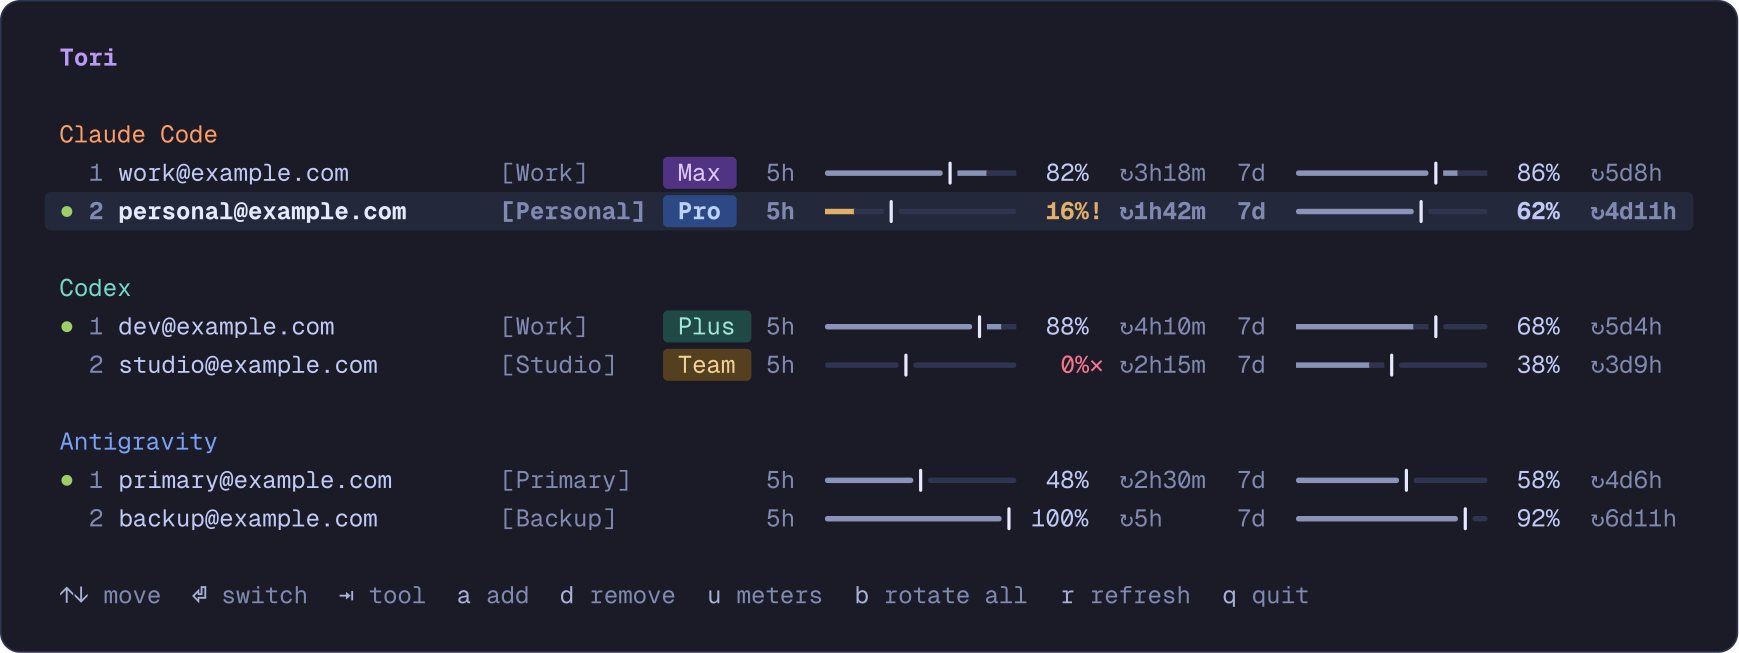
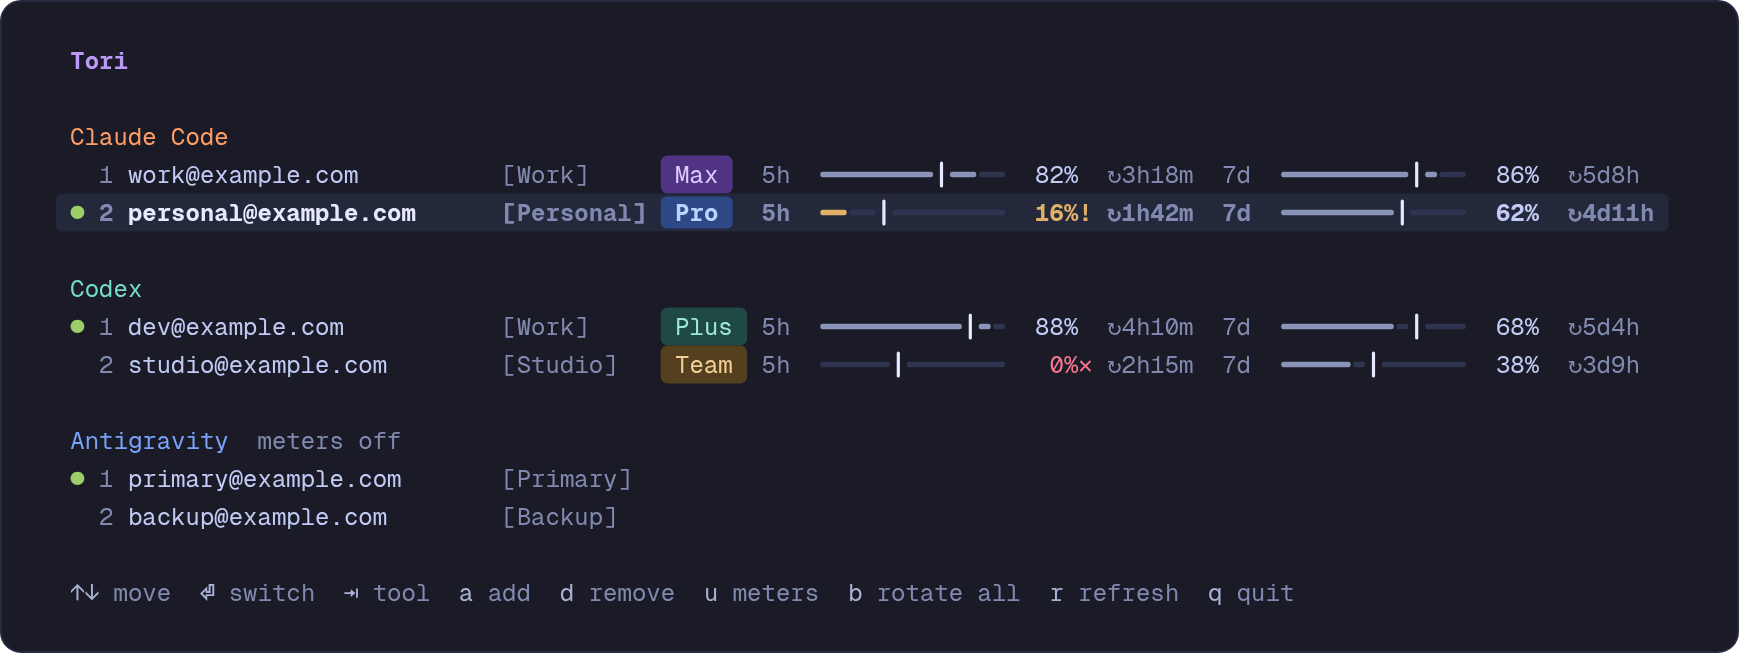
docs: improve search metadata and README for v0.4.0
- add a page heading, non-affiliation line, FAQ and clearer section names
- correct statements about Codex quota, token refresh, saved Antigravity
  files and the switch argument
- replace the screenshot, which showed quota for a signed-out Antigravity
  account
- name the three CLIs in the npm description and keywords, and give the
  platform packages short descriptions that point to tori-switch

diff --git a/README.md b/README.md
@@ -1,7 +1,8 @@
 <div align="center">
-  <img src="docs/tori.svg" alt="Tori" width="150">
-  <p><strong>Switch between Claude Code, Codex, and Antigravity accounts from your terminal — with live quota bars.</strong></p>
-  <p>Linux · macOS · Windows</p>
+  <img src="docs/tori.svg" alt="Tori logo" width="150">
+  <h1>Tori: account switcher for Claude Code, Codex CLI, and Antigravity CLI</h1>
+  <p><strong>Switch between multiple accounts from your terminal, with live quota bars for Claude Code and Codex.</strong></p>
+  <p>Linux · macOS · Windows. Independent open-source project, not affiliated with Anthropic, OpenAI, or Google.</p>
 
   <p>
     <a href="https://github.com/Anurag-Raut/tori/releases"><img src="https://img.shields.io/github/v/release/Anurag-Raut/tori?style=flat-square" alt="Release"></a>
@@ -10,13 +11,13 @@
     <a href="LICENSE"><img src="https://img.shields.io/github/license/Anurag-Raut/tori?style=flat-square" alt="License"></a>
   </p>
 
-  <img src="docs/screenshot.png" alt="Tori interactive terminal picker" width="820">
+  <img src="docs/screenshot.png" alt="Tori terminal UI listing Claude Code and Codex accounts with 5-hour and 7-day quota bars, and Antigravity CLI accounts with meters off" width="820">
 </div>
 
-## Highlights
+## Features
 
 - **Three tools, one picker** — manage multiple **Claude Code**, **Codex CLI**, and **Antigravity CLI** (`agy`) accounts side by side.
-- **Live quota and pace bars** — see remaining 5-hour and 7-day quota, reset timers, and whether you're ahead or behind pace for every saved Claude Code and Codex account. Antigravity meters are off until you turn them on, and cover only the signed-in account.
+- **Live quota and pace bars** — see remaining quota (such as 5-hour and 7-day windows), reset timers, and whether you're ahead or behind pace for saved Claude Code accounts and Codex ChatGPT sign-ins. Codex API keys have no quota to show. Antigravity meters are off until you turn them on, and cover only the signed-in account.
 - **No proxy, no daemon** — Tori swaps your own Claude Code and Codex logins (files and OS keyring entries) only when you ask it to, and switches Antigravity through Google's own sign-in. Your tools keep talking directly to their providers.
 - **Interactive TUI + scriptable CLI** — navigate with keyboard or mouse in the Bubble Tea picker, or automate workflows with subcommands and `--json`.
 - **Linux, macOS, and Windows** — a single static Go binary for x64 and arm64, with zero runtime dependencies.
@@ -24,6 +25,8 @@
 ## Install
 
 ### npm (Linux, macOS & Windows)
+
+The `tori-switch` package installs the `tori` command.
 
 ```bash
 npm install -g tori-switch
@@ -41,7 +44,7 @@ npx tori-switch
 curl -fsSL https://raw.githubusercontent.com/Anurag-Raut/tori/main/install.sh | sh
 ```
 
-Installs `tori` to `~/.local/bin` (override with `PREFIX=/usr/local/bin` or pin a version with `VERSION=v0.3.0`). Make sure `~/.local/bin` is on your `PATH`.
+Installs `tori` to `~/.local/bin` (override with `PREFIX=/usr/local/bin` or pin a version with `VERSION=v0.4.0`). Make sure `~/.local/bin` is on your `PATH`.
 
 ### Windows binary
 
@@ -131,7 +134,7 @@ tori g cleanup            # lists the files and asks first
 
 > **macOS Keychain note:** On macOS, the first time `claude` or `codex` reads a Keychain item written by Tori, or Tori reads `agy`'s item for quota, macOS may show a one-time "Allow access" prompt.
 
-## Reading the quota bars
+## Quota bars and pace indicators
 
 - **Fill = quota remaining** — neutral slate-blue when healthy, amber (`!`) at 20% left or under, and red (`✕`) at 0%.
 - **Pace line (`│`) = time left until reset** — fill past `│` means quota to spare; fill short of `│` means you're burning faster than the window resets.
@@ -139,7 +142,7 @@ tori g cleanup            # lists the files and asks first
 - **Caching & backoff** — readings are cached locally for 3 minutes, refreshes are deduplicated and rate-limited, and transient errors or HTTP 429 responses back off automatically while keeping your last known numbers.
 - **Per-tool control** — toggle quota meters off for any tool with `u` in the picker or `tori usage off <c|x|g|all>` for zero network requests.
 
-## Interactive picker
+## Interactive terminal UI (TUI)
 
 Run `tori` with no arguments to open the interactive picker. Mouse navigation is supported throughout (hover rows, click to select, double-click to switch, click footer hints or dialog choices).
 
@@ -180,11 +183,11 @@ tori g remove 2          # forget a saved account (--yes skips prompt)
 tori c list --json       # machine-readable JSON output
 ```
 
-Every tool supports `list` (`ls`), `status`, `add [alias]`, `switch` (`sw`), `remove` (`rm`), `alias`, and `help`. Antigravity requires a name for `add` and `switch`, and also has `install`, `login`, `logout`, and `cleanup`.
+Every tool supports `list` (`ls`), `status`, `add [alias]`, `switch` (`sw`), `remove` (`rm`), `alias`, and `help`. Antigravity requires a name for `add` and an account (slot number, email, or alias) for `switch`, and also has `install`, `login`, `logout`, and `cleanup`.
 
 ## Configuration & environment
 
-Preferences live in `~/.tori/config.json` and saved credentials under `~/.tori/{claude,codex}`. `~/.tori/antigravity` holds account names and cached quota only. On Windows, `~` is your user profile (`%USERPROFILE%`).
+Preferences live in `~/.tori/config.json` and saved credentials under `~/.tori/{claude,codex}`. `~/.tori/antigravity` holds account names and cached quota; token files saved by 0.3.0 or earlier stay there until you delete them. On Windows, `~` is your user profile (`%USERPROFILE%`).
 
 | Variable | Description |
 |---|---|
@@ -200,8 +203,26 @@ Preferences live in `~/.tori/config.json` and saved credentials under `~/.tori/{
 ## Privacy & terms
 
 - **Local only** — saved logins stay on your machine under `~/.tori/`, written atomically. Files are created with `0600` permissions on Linux and macOS; on Windows they inherit your folder's permissions. Never share that folder.
-- **Direct connections** — Tori is not a proxy and runs no background service. When quota meters are enabled, requests go directly to Anthropic, OpenAI, and Google to read usage (and refresh expired Claude Code and Codex tokens when needed). Turning meters off (`tori usage off all` or `--no-usage`) stops Tori's own network traffic; Claude Code and Codex switching works offline. Antigravity sign-in and installation need a connection.
+- **Direct connections** — Tori is not a proxy and runs no background service. When quota meters are enabled, requests go directly to Anthropic, OpenAI, and Google to read usage (and refresh expired tokens of saved Claude Code and Codex accounts that aren't in use). Turning meters off (`tori usage off all` or `--no-usage`) stops Tori's own network traffic; Claude Code and Codex switching works offline. Antigravity sign-in and installation need a connection.
 - **Antigravity note** — Google's [terms](https://antigravity.google/terms) and [FAQ](https://antigravity.google/docs/faq) restrict third-party tools, including wrapping `agy` and automating account switching, and accounts may be suspended. Using Google's own sign-in lowers that risk but is not approval from Google. Quota meters read your `agy` login and call Google's quota endpoints as an Antigravity client, so they are off by default; turn them on with `tori usage on g` (or `u` in the picker) only if you accept that risk.
+
+## FAQ
+
+### How do I switch between multiple Claude Code or Codex accounts?
+
+Sign in with `claude` or `codex login`, save the account in Tori, and repeat for the next account. Then pick one in `tori`, or run `tori c switch <account>` or `tori x switch <account>`.
+
+### Does Tori support Gemini CLI or the Antigravity IDE?
+
+No. For Google accounts Tori supports the Antigravity CLI (`agy`) only. Antigravity Desktop, the IDE, T3 Code, and Gemini CLI are not supported. `tori gemini` is only a command alias for Antigravity.
+
+### How does Antigravity account switching work?
+
+Each switch is a new Google sign-in in `agy`. Tori doesn't rotate Antigravity accounts, and its quota meters are off by default.
+
+### Is Tori made by Anthropic, OpenAI, or Google?
+
+No. Tori is an independent, MIT-licensed project.
 
 ## Development
 
